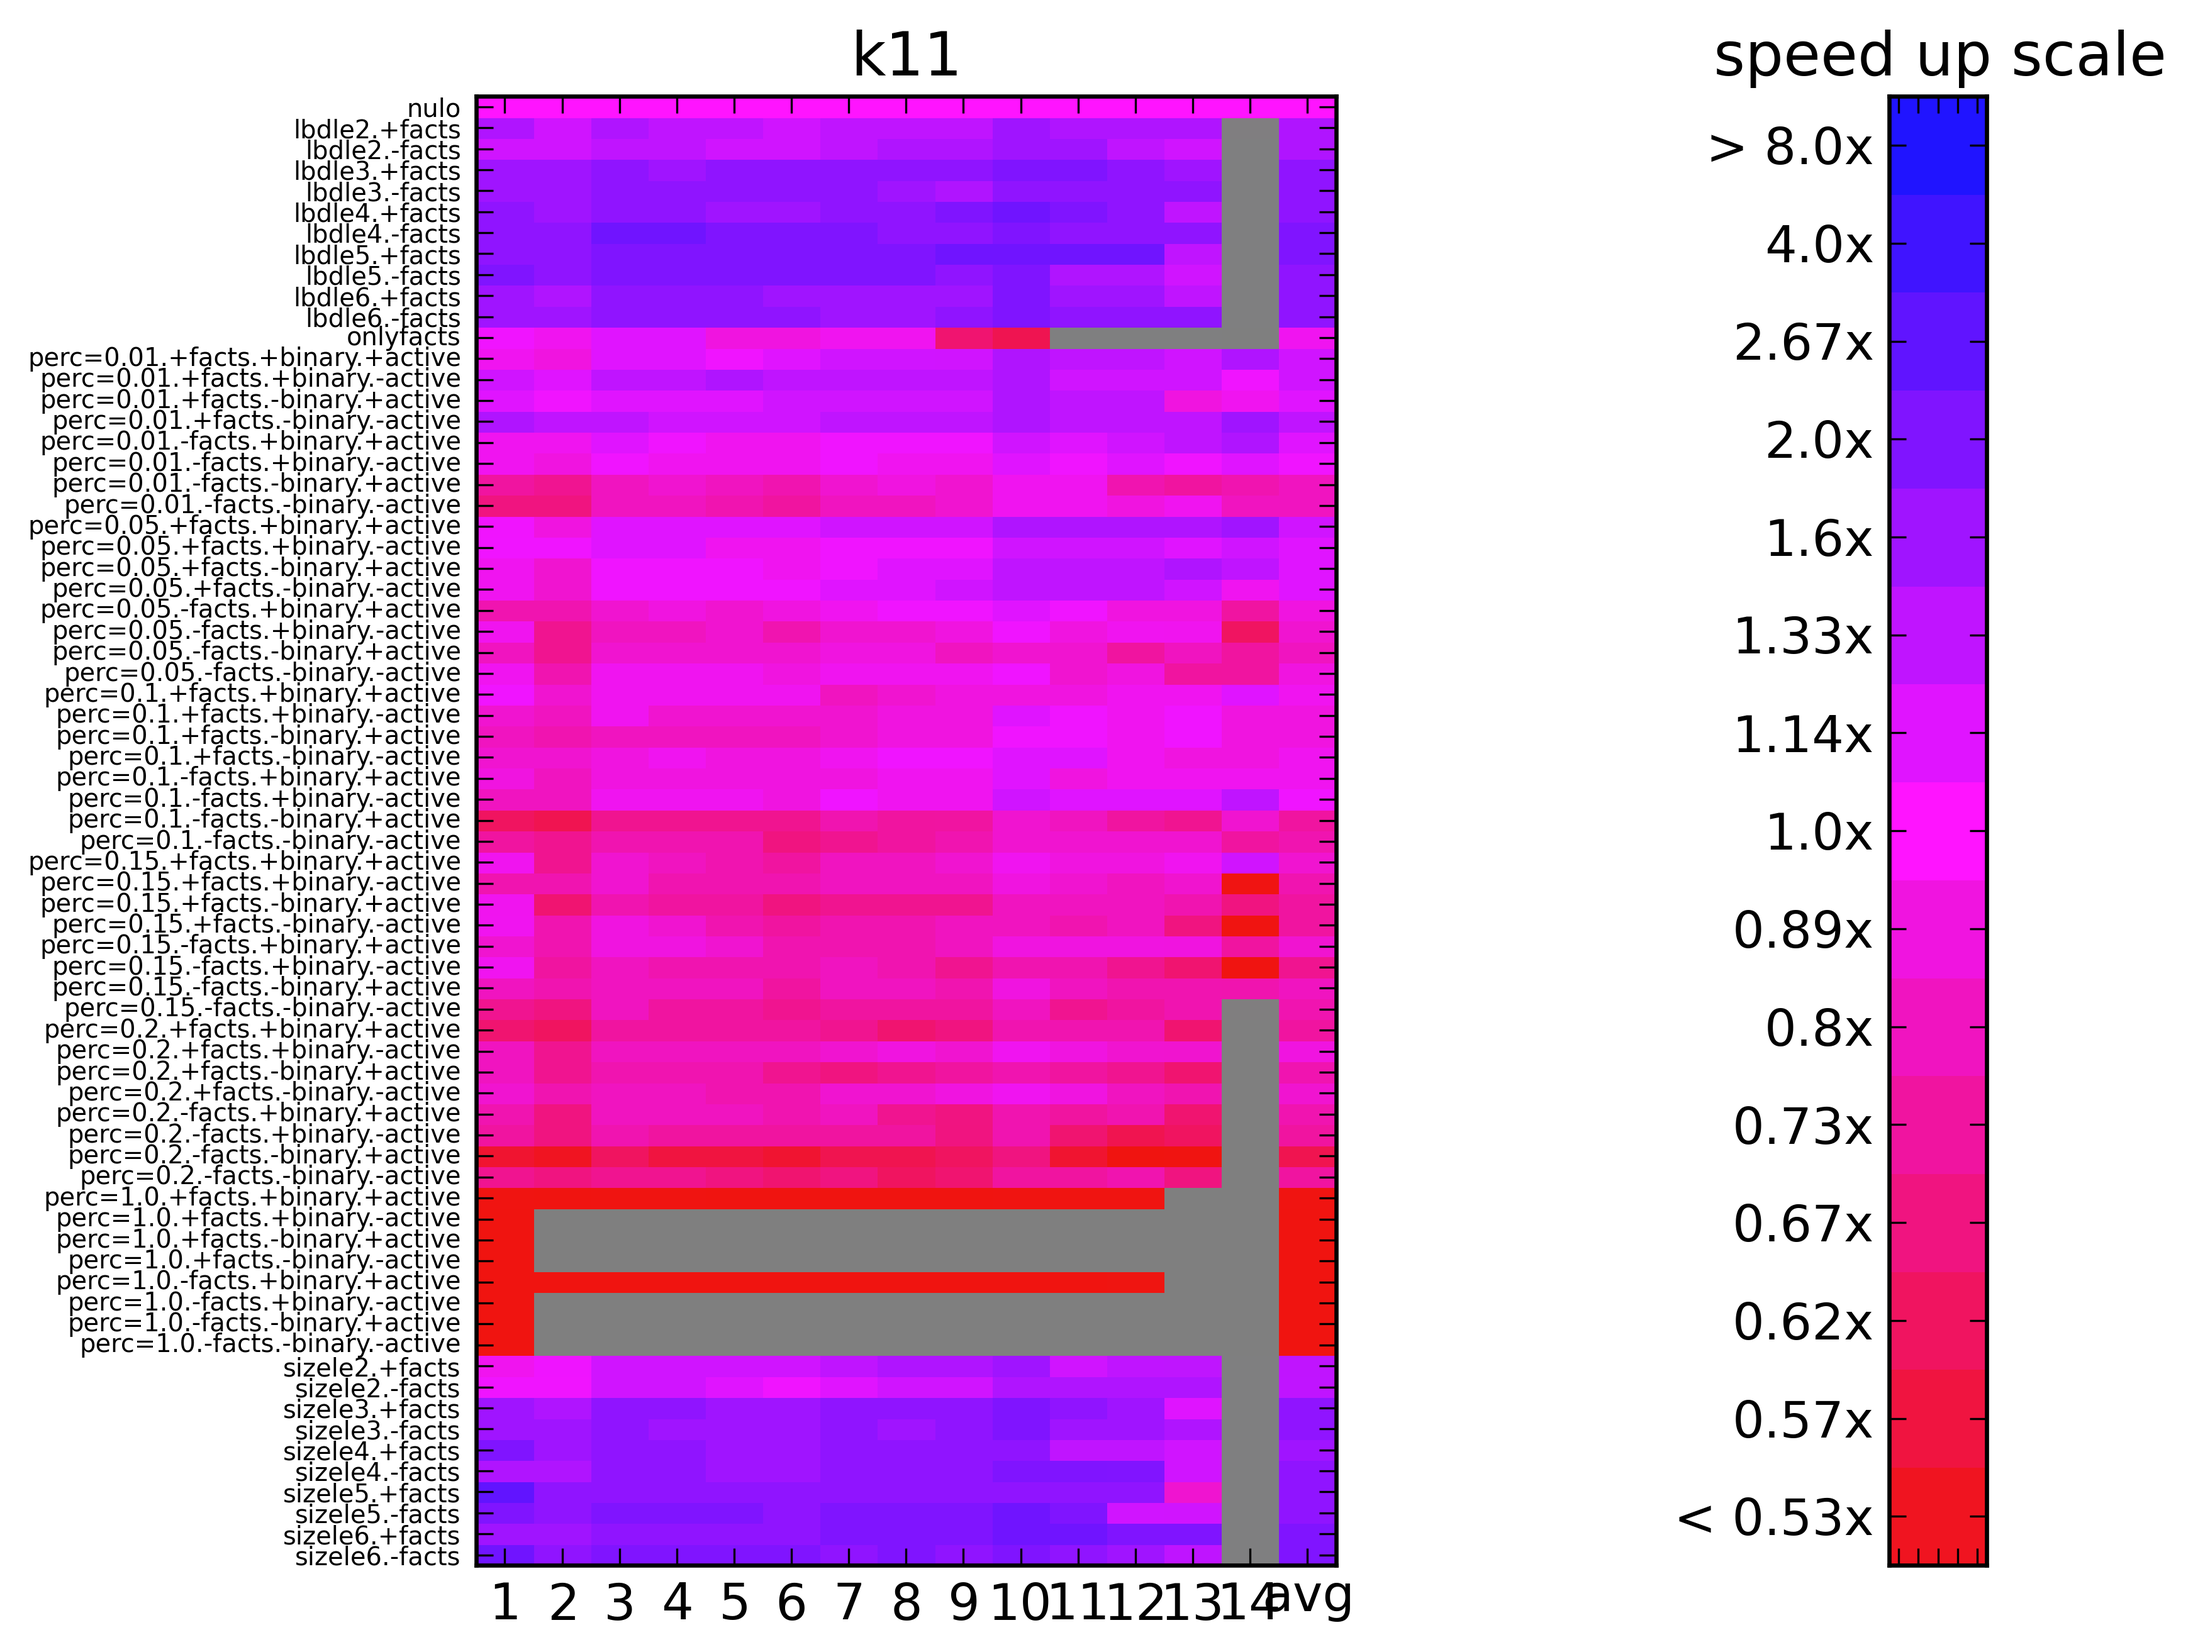
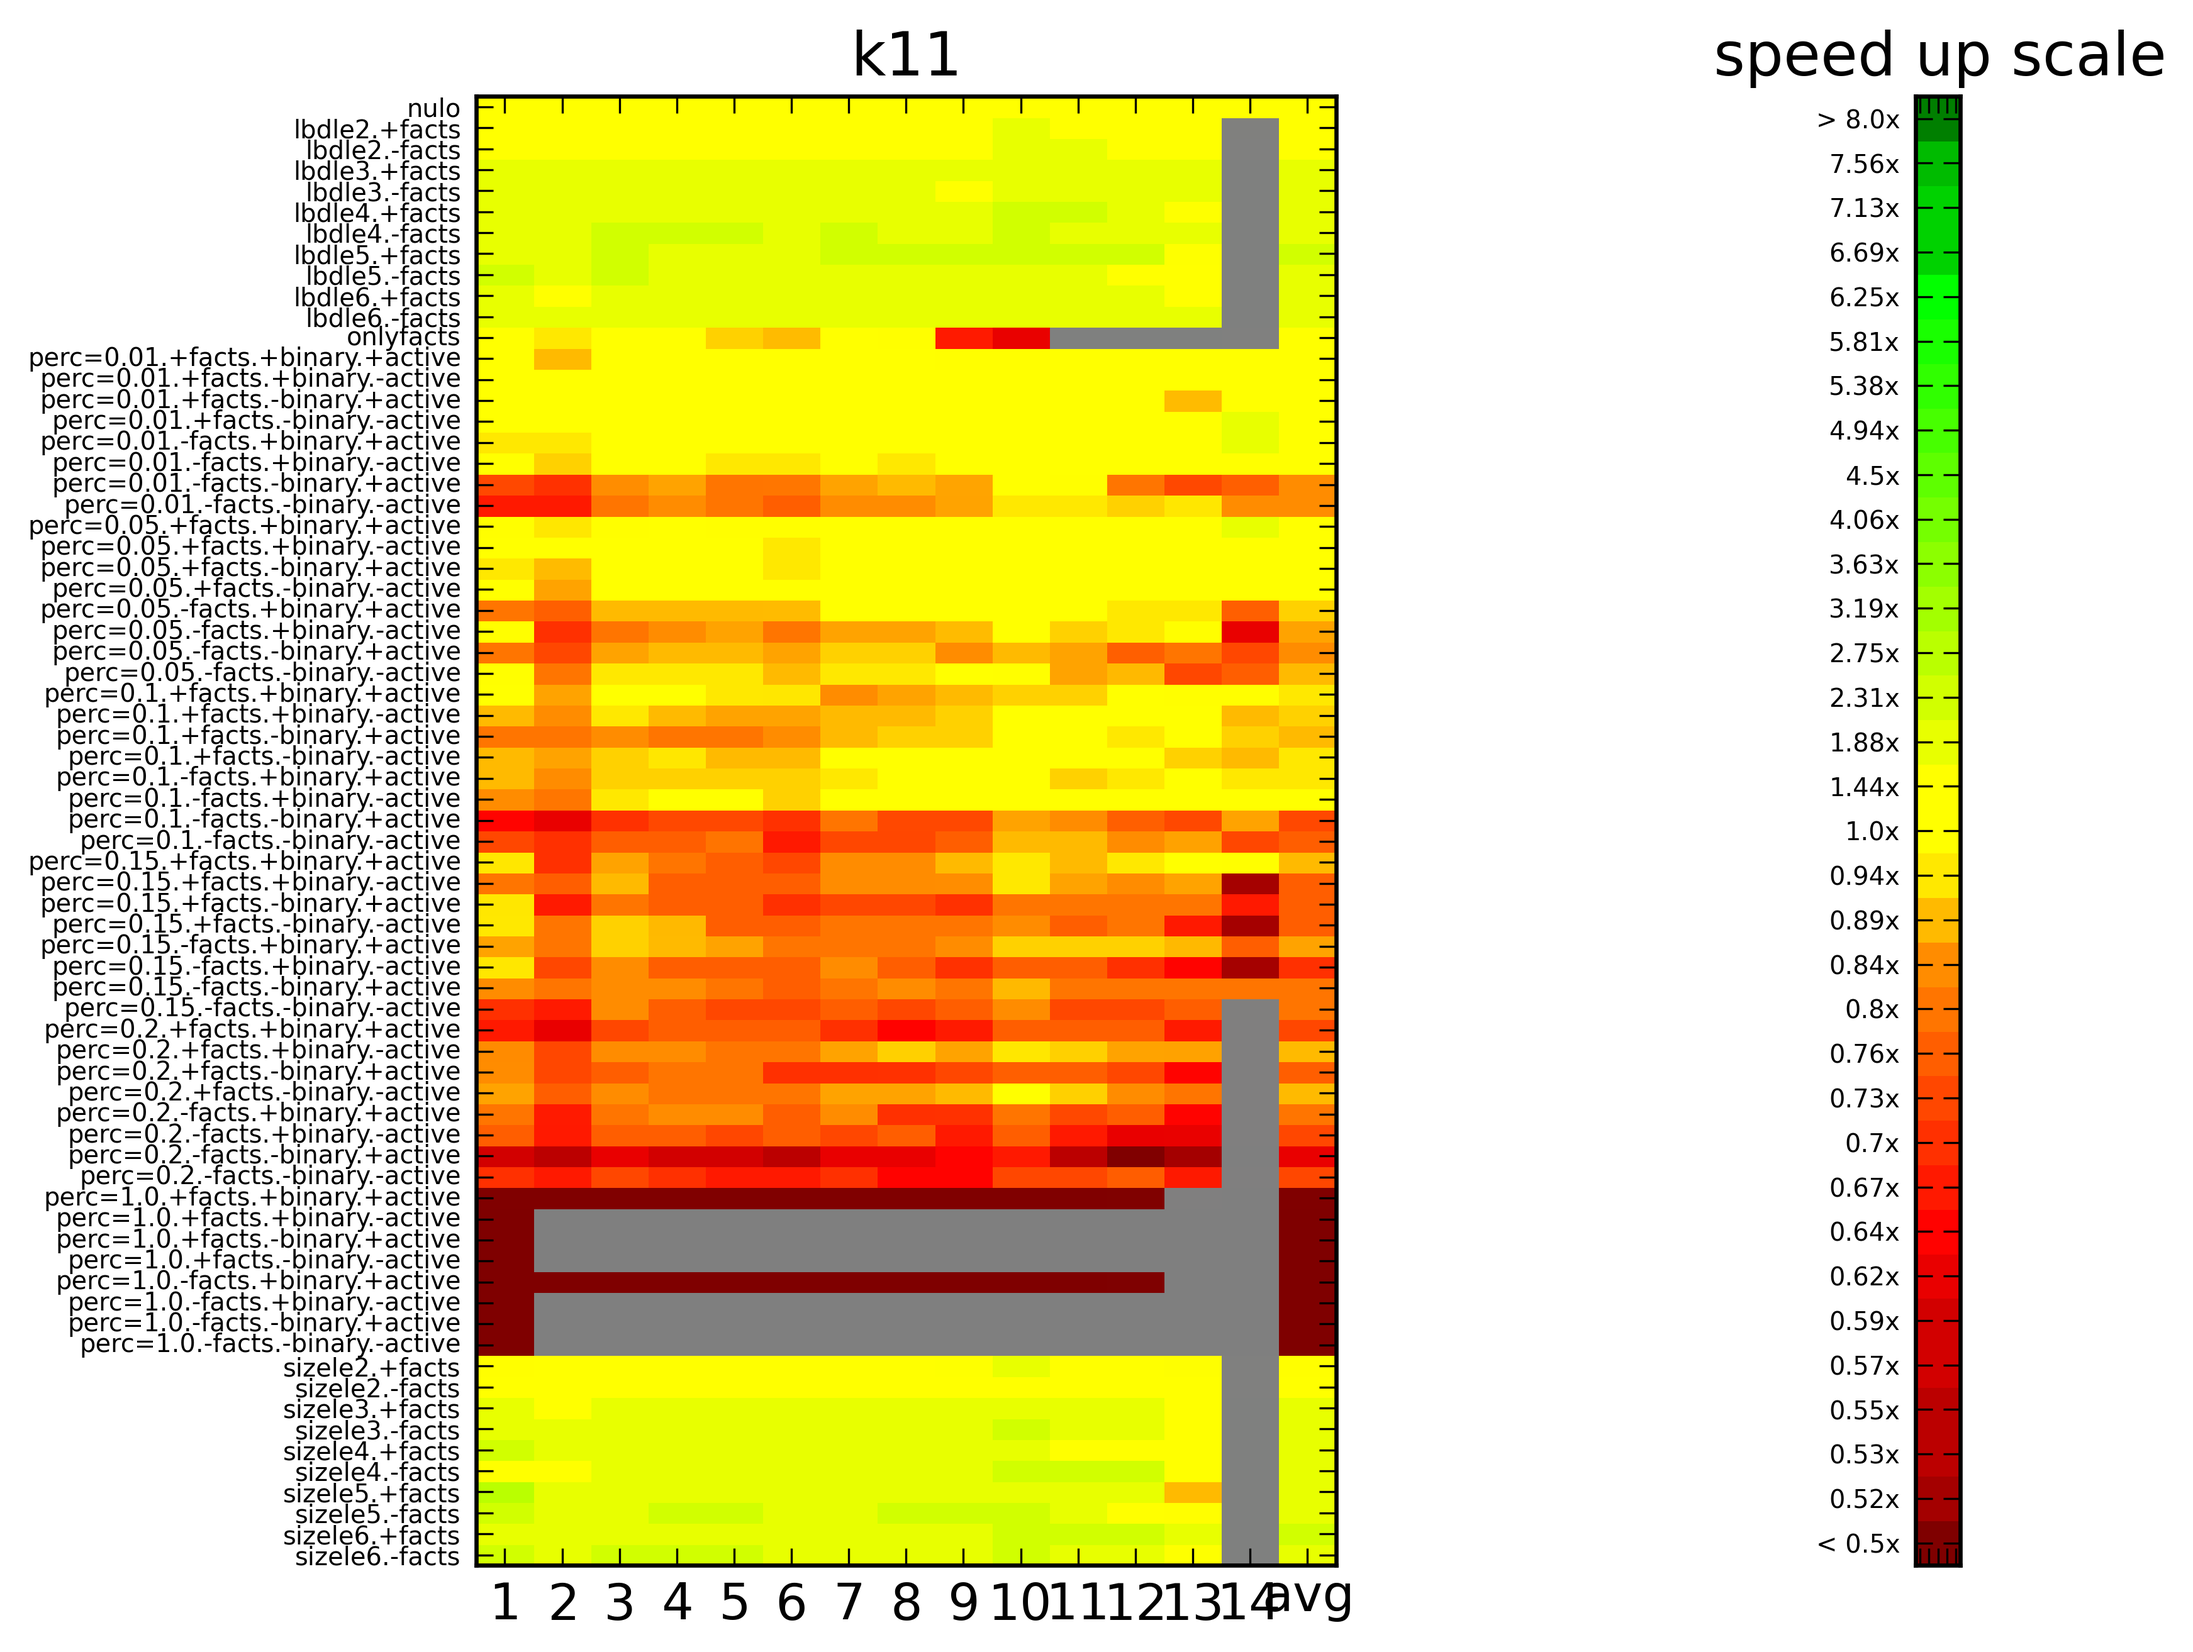
nueva escala de colores para los heatmaps

diff --git a/tesis/resultados/csv2heatmap.py b/tesis/resultados/csv2heatmap.py
@@ -43,32 +43,49 @@ def drange(start, stop, step):
 		yield r
 		r += step
 
-def val2rgb(val, levels=16.0):
+def val2rgb(val, levels=16.0, maxspeedup=2.0, minspeedup=0.5):
+	assert levels < 765.0 # cannot handle more than 765 levels of color cause we're using RGB
+
 	nacolor = (0.5, 0.5, 0.5, 1) # grey color for N/A values
 
-	bluelevel = float(20)/255
+	bluelevel = float(0)/255
 	maxcolor = 255
 	red = maxcolor
 	green = maxcolor
 	if val < 0.0:
 		return (val, nacolor)
-	elif val != 1:
-		colorstep = float(maxcolor)/levels
-		valuestep = 1.0/levels
-		redchannel = reversed(zip(drange(0.0, 1, valuestep), map(lambda v: int(math.ceil(v)), drange(0, maxcolor+1, colorstep))))
-		grechannel = zip(list(drange(1, 2, valuestep)), reversed(map(lambda v: int(math.ceil(v)), drange(0, maxcolor+1, colorstep))))
-		red = 0
-		for redmapval, redmapcolor in redchannel:
-			red = redmapcolor
-			if val >= redmapval:
-				break
-		green = 255
-		for gremapval, gremapcolor in grechannel:
-			green = gremapcolor
-			if val <= gremapval:
-				break
-	return (val, (float(red)/255, bluelevel, float(green)/255, 1))
+	else:
+		redrange = range(127, 255) + [255 for i in range(0, 255)] + range(254, -1, -1) + [0 for i in range(0, 127)]
+		greenrange = [0 for i in range(0, 127)] + range(0, 255) + [255 for i in range(0, 255)] + range(254, 126, -1)
+		together = zip(redrange, greenrange)
+		center = 382 # i.e. len(together)/2 == 765/2 == 382
 
+		stepweight = int(382/(levels/2))
+		#print stepweight
+		stepweightval = (stepweight/382.0)
+		#print stepweightval
+		
+		speedup = 1.0/val
+		#print "speedup {}".format(speedup)
+		if speedup >= maxspeedup:
+			red, green = together[-1]
+		elif speedup <= minspeedup:
+			red, green = together[0]
+		else:
+			steps = 0
+			upperstep = ((maxspeedup-1.0)/(levels/2))
+			while speedup > (1.0 + upperstep):
+				#print "speedup {}".format(speedup)
+				steps = steps + 1
+				speedup = speedup - upperstep
+			lowerstep = ((1.0-minspeedup)/(levels/2))
+			while speedup < (1.0 - lowerstep):
+				steps = steps - 1
+				speedup = speedup + lowerstep
+			# print "val {}".format(val)
+			# print "steps {}".format(steps)
+			red, green = together[center + (steps*stepweight)]
+	return (val, (float(red)/255, float(green)/255, bluelevel, 1))
 
 try:
 	title = sys.argv[2]
@@ -83,10 +100,12 @@ except:
 try:
 	levels = float(int(sys.argv[4]))
 except:
-	levels = 16.0
+	levels = 32.0
+maxspeedup = 8.0
+minspeedup = 0.5
 
 normstats = normalizedstats(readstats(filename))
-colorfunc = lambda val: val2rgb(val, levels)
+colorfunc = lambda val: val2rgb(val, levels, maxspeedup, minspeedup)
 
 statscolored = [map(colorfunc, v[1:]) for v in normstats]
 statscolored = [[u[1] for u in v] for v in statscolored]
@@ -109,7 +128,14 @@ for label in ax.yaxis.get_ticklabels():
 #ax.yaxis.grid(True)
 
 ax2 = fig.add_subplot(122)
-scale = list(drange(0.125, 2, float(2)/levels))
+
+# prepare color scale for legend purpose
+upperincrement = (maxspeedup-1.0)/(levels/2)
+upperscale = list(drange(1.0, maxspeedup+upperincrement, upperincrement))
+lowerincrement = ((1/minspeedup)-1.0)/(levels/2)
+lowerscale = list(reversed(map(lambda x: 1/x, list(drange(1.0, 1/minspeedup + lowerincrement, lowerincrement))[1:])))
+scale = list(reversed(map(lambda x: 1/x, lowerscale + upperscale)))
+
 ax2.imshow([[v[1]] for v in map(colorfunc, scale)], interpolation='none', aspect='equal')
 
 for label in ax2.xaxis.get_ticklabels():
@@ -124,6 +150,7 @@ ax2_yaxis[-1] = '< ' + ax2_yaxis[-1]
 ax2.yaxis.set_ticklabels(ax2_yaxis)
 for label in ax2.yaxis.get_ticklabels():
 	label.set_visible(True)
+	label.set_size(6)
 
 plt.show()
 fig.savefig(outputfilename, dpi=480, bbox_inches='tight')
